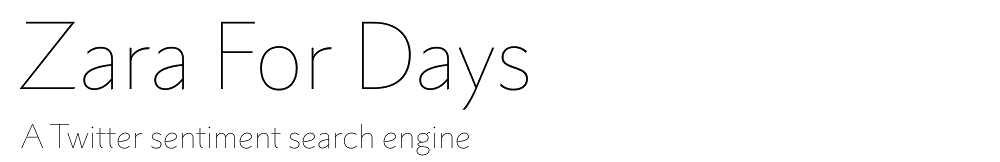
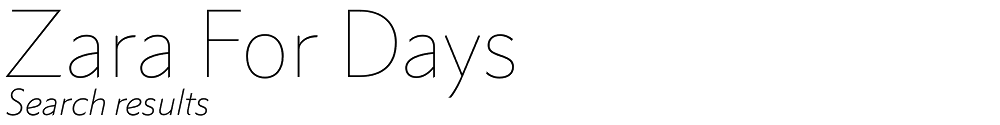
front end results page updates

diff --git a/CelebSearch/CelebResults/templates/CelebResults/results.html b/CelebSearch/CelebResults/templates/CelebResults/results.html
@@ -2,8 +2,8 @@
 <head>
     <title>Tweets</title>
     <script type="text/javascript" src="https://www.google.com/jsapi"></script>
-    <link rel="stylesheet" type="text/css" href="http://visapi-gadgets.googlecode.com/svn/trunk/termcloud/tc.css"/>
-    <script type="text/javascript" src="http://visapi-gadgets.googlecode.com/svn/trunk/termcloud/tc.js"></script>
+    <link rel="stylesheet" type="text/css" href="http://visapi-gadgets.googlecode.com/svn/trunk/wordcloud/wc.css"/>
+    <script type="text/javascript" src="http://visapi-gadgets.googlecode.com/svn/trunk/wordcloud/wc.js"></script>
         <link rel="stylesheet" type="text/css" href="{{STATIC_URL}}css/master.css"></link>
 
     <script>
@@ -60,6 +60,15 @@
 
         var options = {
           title: 'Aggregate Sentiment',
+          titleTextStyle:{
+          	color: 'white'
+          },
+          backgroundColor: 'transparent',
+          legend:{textStyle: {
+          	color: 'white',
+          	fontName: 'Arial',
+          	fontSize: '12'
+          }},
           slices:{
           	0: {color: 'black'},
           	1: {color: 'gray'},
@@ -69,6 +78,15 @@
 
         var options2 = {
           title: 'Tweet Subjectivity',
+          titleTextStyle:{
+          	color: 'white'
+          },
+          backgroundColor: 'transparent',
+          legend:{textStyle: {
+          	color: 'white',
+          	fontName: 'Arial',
+          	fontSize: '12'
+          }},
           slices:{
           	0: {color: 'black'},
           	1: {color: 'gray'},
@@ -87,30 +105,31 @@
 </head>
 <body>
 	<div id="banner">
-		<img id="zara_banner" src="{{STATIC_URL}}img/zara_background.png"></img>
+		<img id="zara_banner" src="{{STATIC_URL}}img/banner.png"></img>
 	</div>
-    <div id="piechart" style="width: 900px; height: 500px;"></div>
-    <div id="piechart2" style="width: 900px; height: 500px;"></div>
-    <div id="tcdiv"></div>
-    <div id="tcdiv2"></div>
-    <ol>
-    {% for tweet in tweets %}
-        <li> {{tweet.text}} </li>
-    {% endfor %}
-    {% for score in scores %}
-        <li> {{score}} </li>
-    {% endfor %}
-    </ol>
+	<div id="pie_chart_container">
+		<img id="pie_title" src="{{STATIC_URL}}img/pie_title.png"></img>
+    	<div id="piechart" ></div>
+    	<div id="piechart2"></div>
+    	<img id="aggregate_description" src="{{STATIC_URL}}img/pie_description.png"></img>
+    </div>
+   <!-- <div id="tcdiv"></div>
+    <div id="tcdiv2"></div> -->
 </body>
 <script type="text/javascript">
 	  //figure out which tweets are positive and which are negative
-	  var tweet_array = [];
+	/*  var tweet_array = [];
 	  var positive_tweet = [];
 	  var negative_tweet = [];
+	  var array_test = [];
 	  {% for tweet in tweets %}
+	  		try{
 			var str = "{{tweet.text}}";
-			str = str.replace(/['"]+/g, '');
+			
 			tweet_array.push(str);
+		} catch(err){
+			alert("failed");
+		}
 	  {% endfor %}
 	  for(var i = 0; i < tweet_data.length; i++ ){
 	  	if(tweet_data[i] > 0.0){
@@ -119,59 +138,27 @@
 	  		negative_tweet.push(tweet_array[i]);
 	  	}
 	  }
-	  //Now, positive_tweet[] holds all of the positive tweets, and negative_tweet holds all of the negative tweets.
-	  //Create tag clouds out of each of these arrays.
-    /*  google.load("visualization", "1");
+      google.load("visualization", "1");
       google.setOnLoadCallback(draw);
       function draw() {
         data = new google.visualization.DataTable();
         data.addColumn('string', 'Label');
-        data.addColumn('number', 'Value');
-        data.addColumn('string', 'Link');
         data.addRows(positive_tweet.length);
         for(var twe = 0; twe < positive_tweet.length; twe++){
-        //{% for tweet in tweets %}
-        	for(var x = 0; x < 3; x++){
-        		if(x == 0){
-        			data.setValue(twe,x,positive_tweet[twe]);
-        			
-        		} else if (x == 1){
-        			data.setValue(twe,x,80); //maybe make the size random, or based on the tweets polarity value
-        			
-        		} else {
-        			data.setValue(twe,x,"");
-        			
-        		}
+        	data.setValue(twe,0,poitive_tweet[twe]);
         	}
-        //{% endfor %}
-        }
         data2 = new google.visualization.DataTable();
         data2.addColumn('string', 'Label');
-        data2.addColumn('number', 'Value');
-        data2.addColumn('string', 'Link');
         data2.addRows(negative_tweet.length);
         for(var twe = 0; twe < negative_tweet.length; twe++){
-        //{% for tweet in tweets %}
-        	for(var x = 0; x < 3; x++){
-        		if(x == 0){
-        			data.setValue(twe,x,negative_tweet[twe]);
-        			
-        		} else if (x == 1){
-        			data.setValue(twe,x,80); //maybe make the size random, or based on the tweets polarity value
-        			
-        		} else {
-        			data.setValue(twe,x,"");
-        			
-        		}
+        	data2.setValue(twe,0,negative_tweet[twe]);
         	}
-        //{% endfor %}
-        }
         var outputDiv = document.getElementById('tcdiv');
-        var tc = new TermCloud(outputDiv);
+        var tc = new WordCloud(outputDiv);
         tc.draw(data, null);
         var outputDiv2 = document.getElementById('tcdiv2');
-        var tc2 = new TermCloud(outputDiv2);
+        var tc2 = new WordCloud(outputDiv2);
         tc2.draw(data2, null);
-      }*/
+    }*/
     </script>
 </html>

diff --git a/CelebSearch/static/css/master.css b/CelebSearch/static/css/master.css
@@ -7,13 +7,10 @@
       li{
         border: 1px solid black;
       }
-      #banner{
-        height:200px;
-        width:1100px;
-      }
-      #zara_banner{
-        height:190px;
-        width:1099px;
+      #pie_chart_container{
+        background-color:#1B1B1B;
+        height:500px;
+        margin-top:50px;
       }
       #logo{
         margin-left: 100px;
@@ -28,6 +25,30 @@
         float:right;
         margin-right:120px;
         margin-top:14px;
+      }
+      #pie_title{
+        position: absolute;
+        left:450px;
+      }
+      #piechart{
+        width: 400px; 
+        height: 500px;
+        position:absolute;
+        top:200px;
+        left:100px;
+      }
+      #piechart2{
+        width: 400px; 
+        height: 500px;
+        position:absolute;
+        top:200px;
+        left:850px;
+        
+      }
+      #aggregate_description{
+        position:absolute;
+        top:550px;
+        left:400px;
       }
       #submit_button{
         background-color:transparent;
@@ -51,3 +72,15 @@
   			border: 1px solid white;
   			border-radius: 25px;
   		}
+      #tcdiv{
+        height:200px;
+        width:200px;
+        border:1px solid red;
+        
+      }
+      #tcdiv2{
+        height:200px;
+        width:200px;
+        border:1px solid green;
+
+      }

diff --git a/CelebSearch/CelebResults/views.py b/CelebSearch/CelebResults/views.py
@@ -36,8 +36,8 @@ def results(request):
             tweets = clips.search_tweets(name)
 
         for tweet in tweets:
+            tweet["text"]=tweet["text"].encode('ascii','ignore')
             tweet["text"]=tweet["text"].replace('"','')
-
         ## Score the tweets with sentiment analysis
         scores = clips.get_sentiment(tweets)
         context = RequestContext(request, {'tweets':tweets, 'scores': scores})
